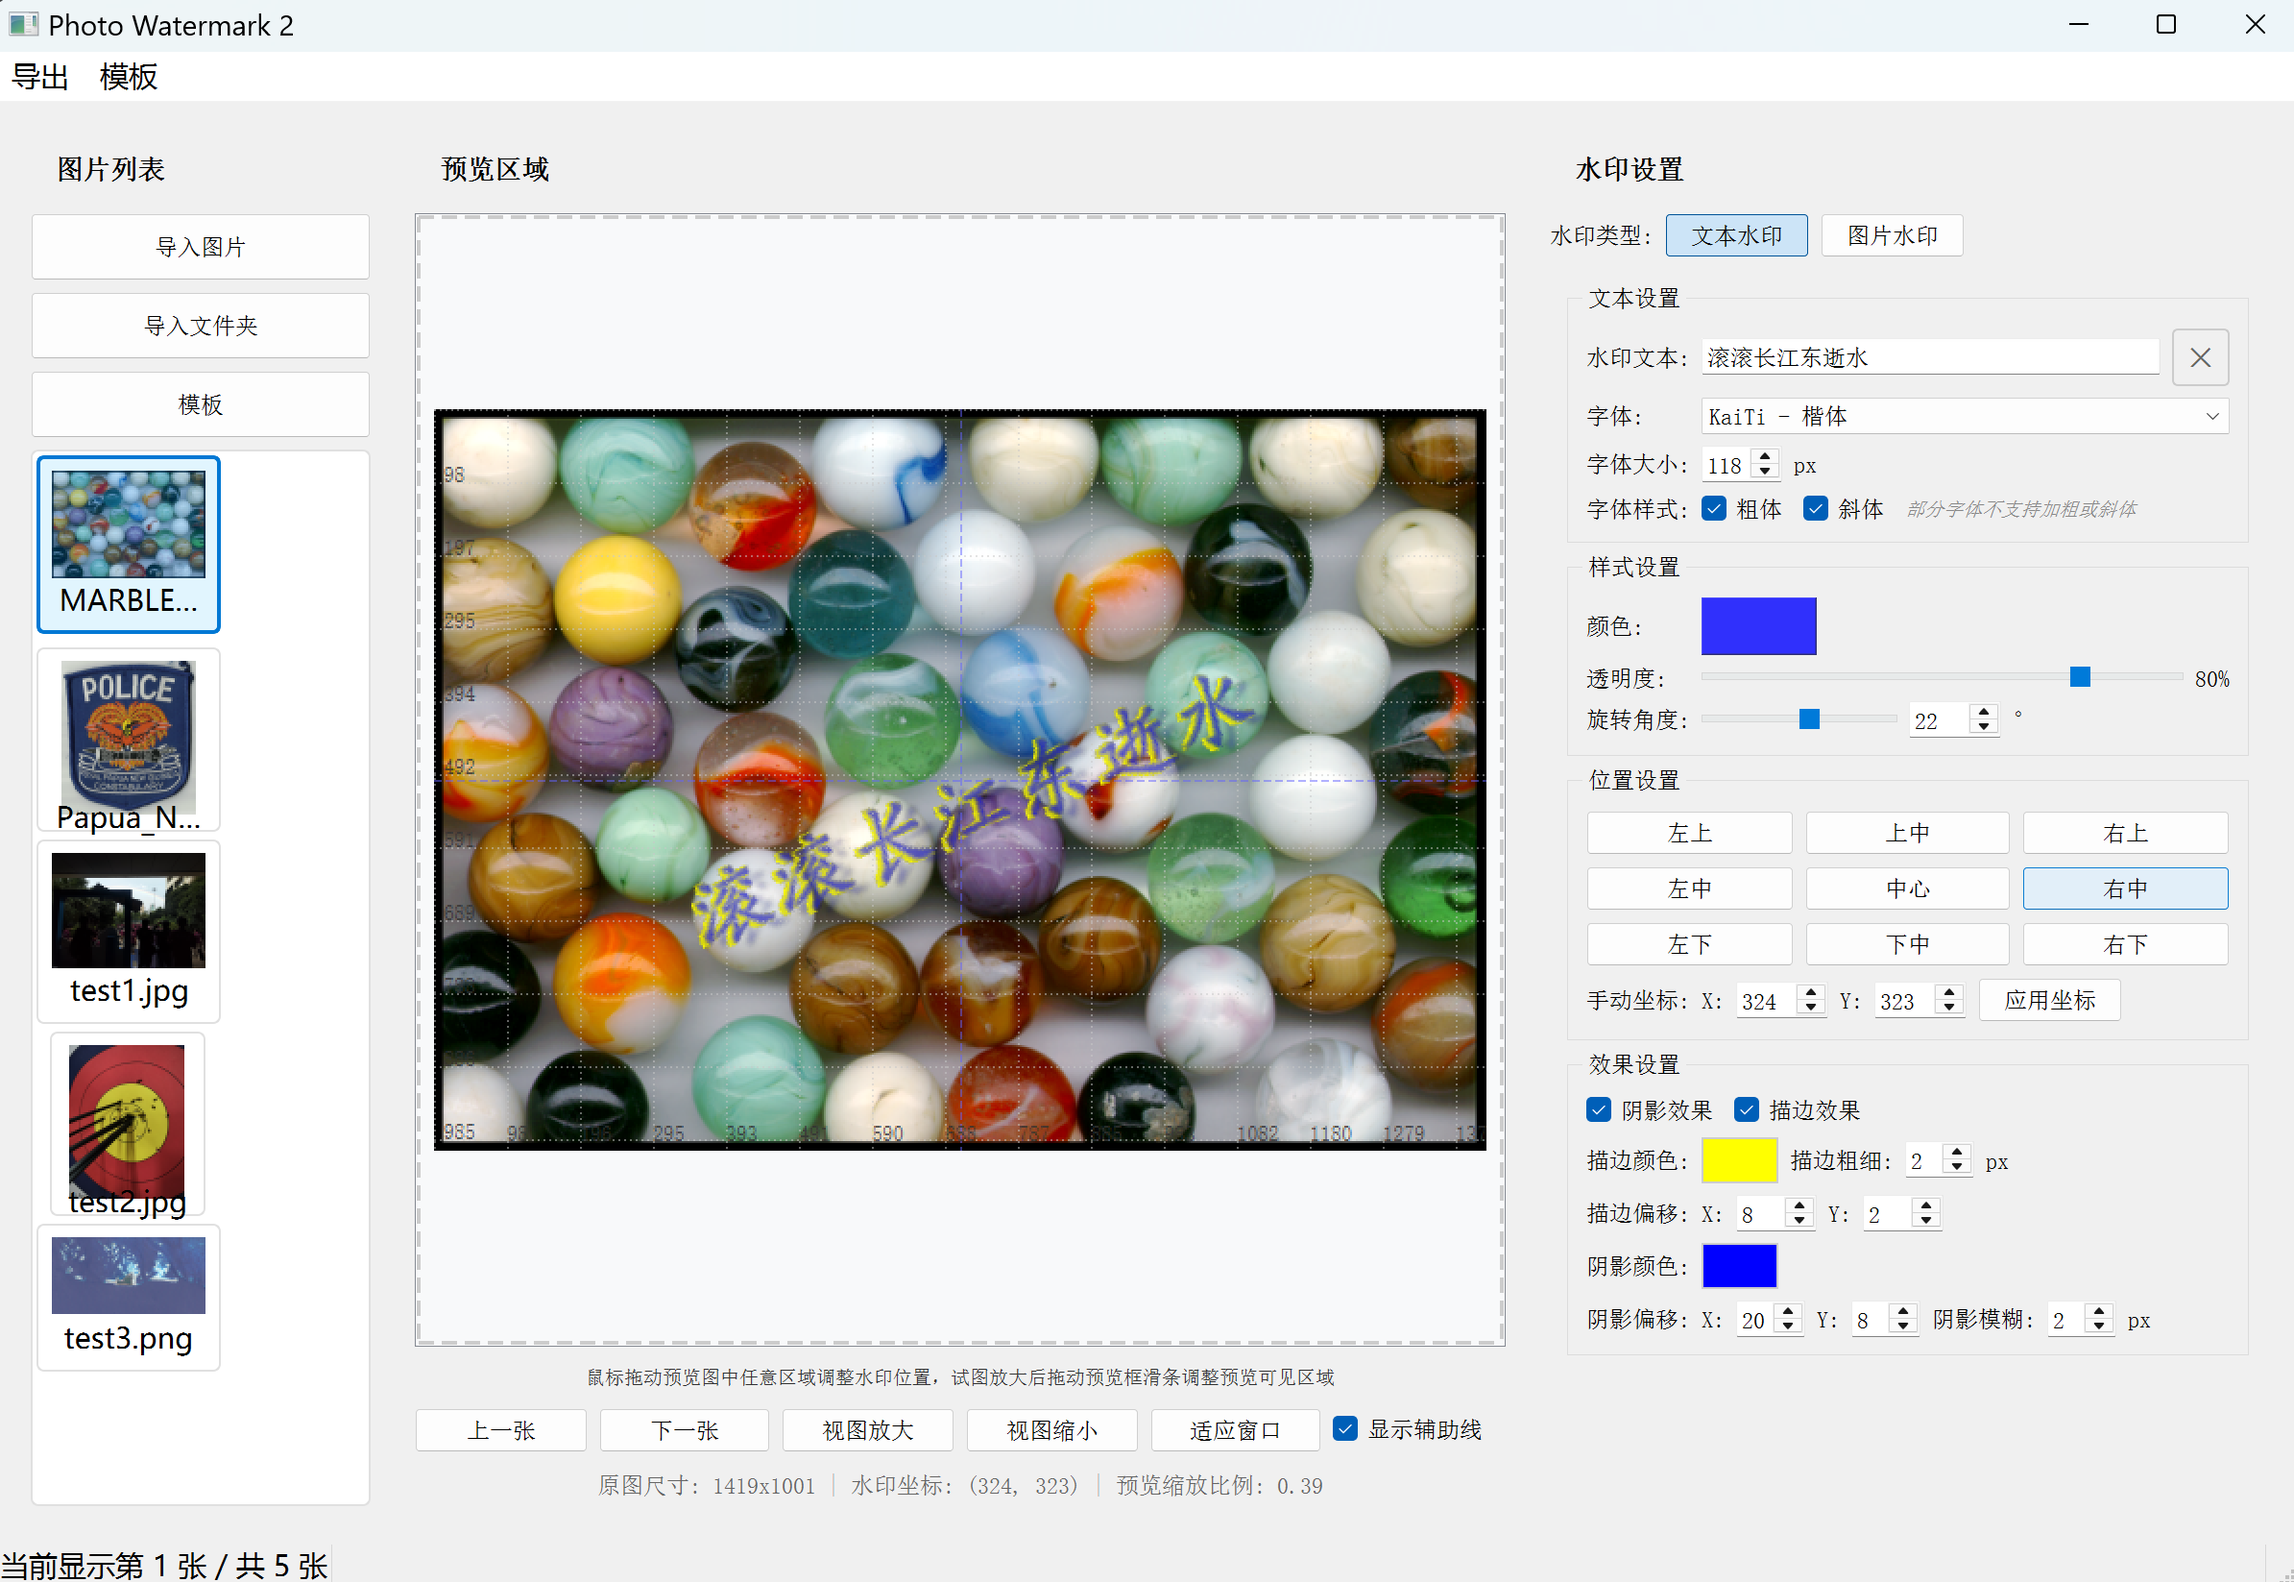
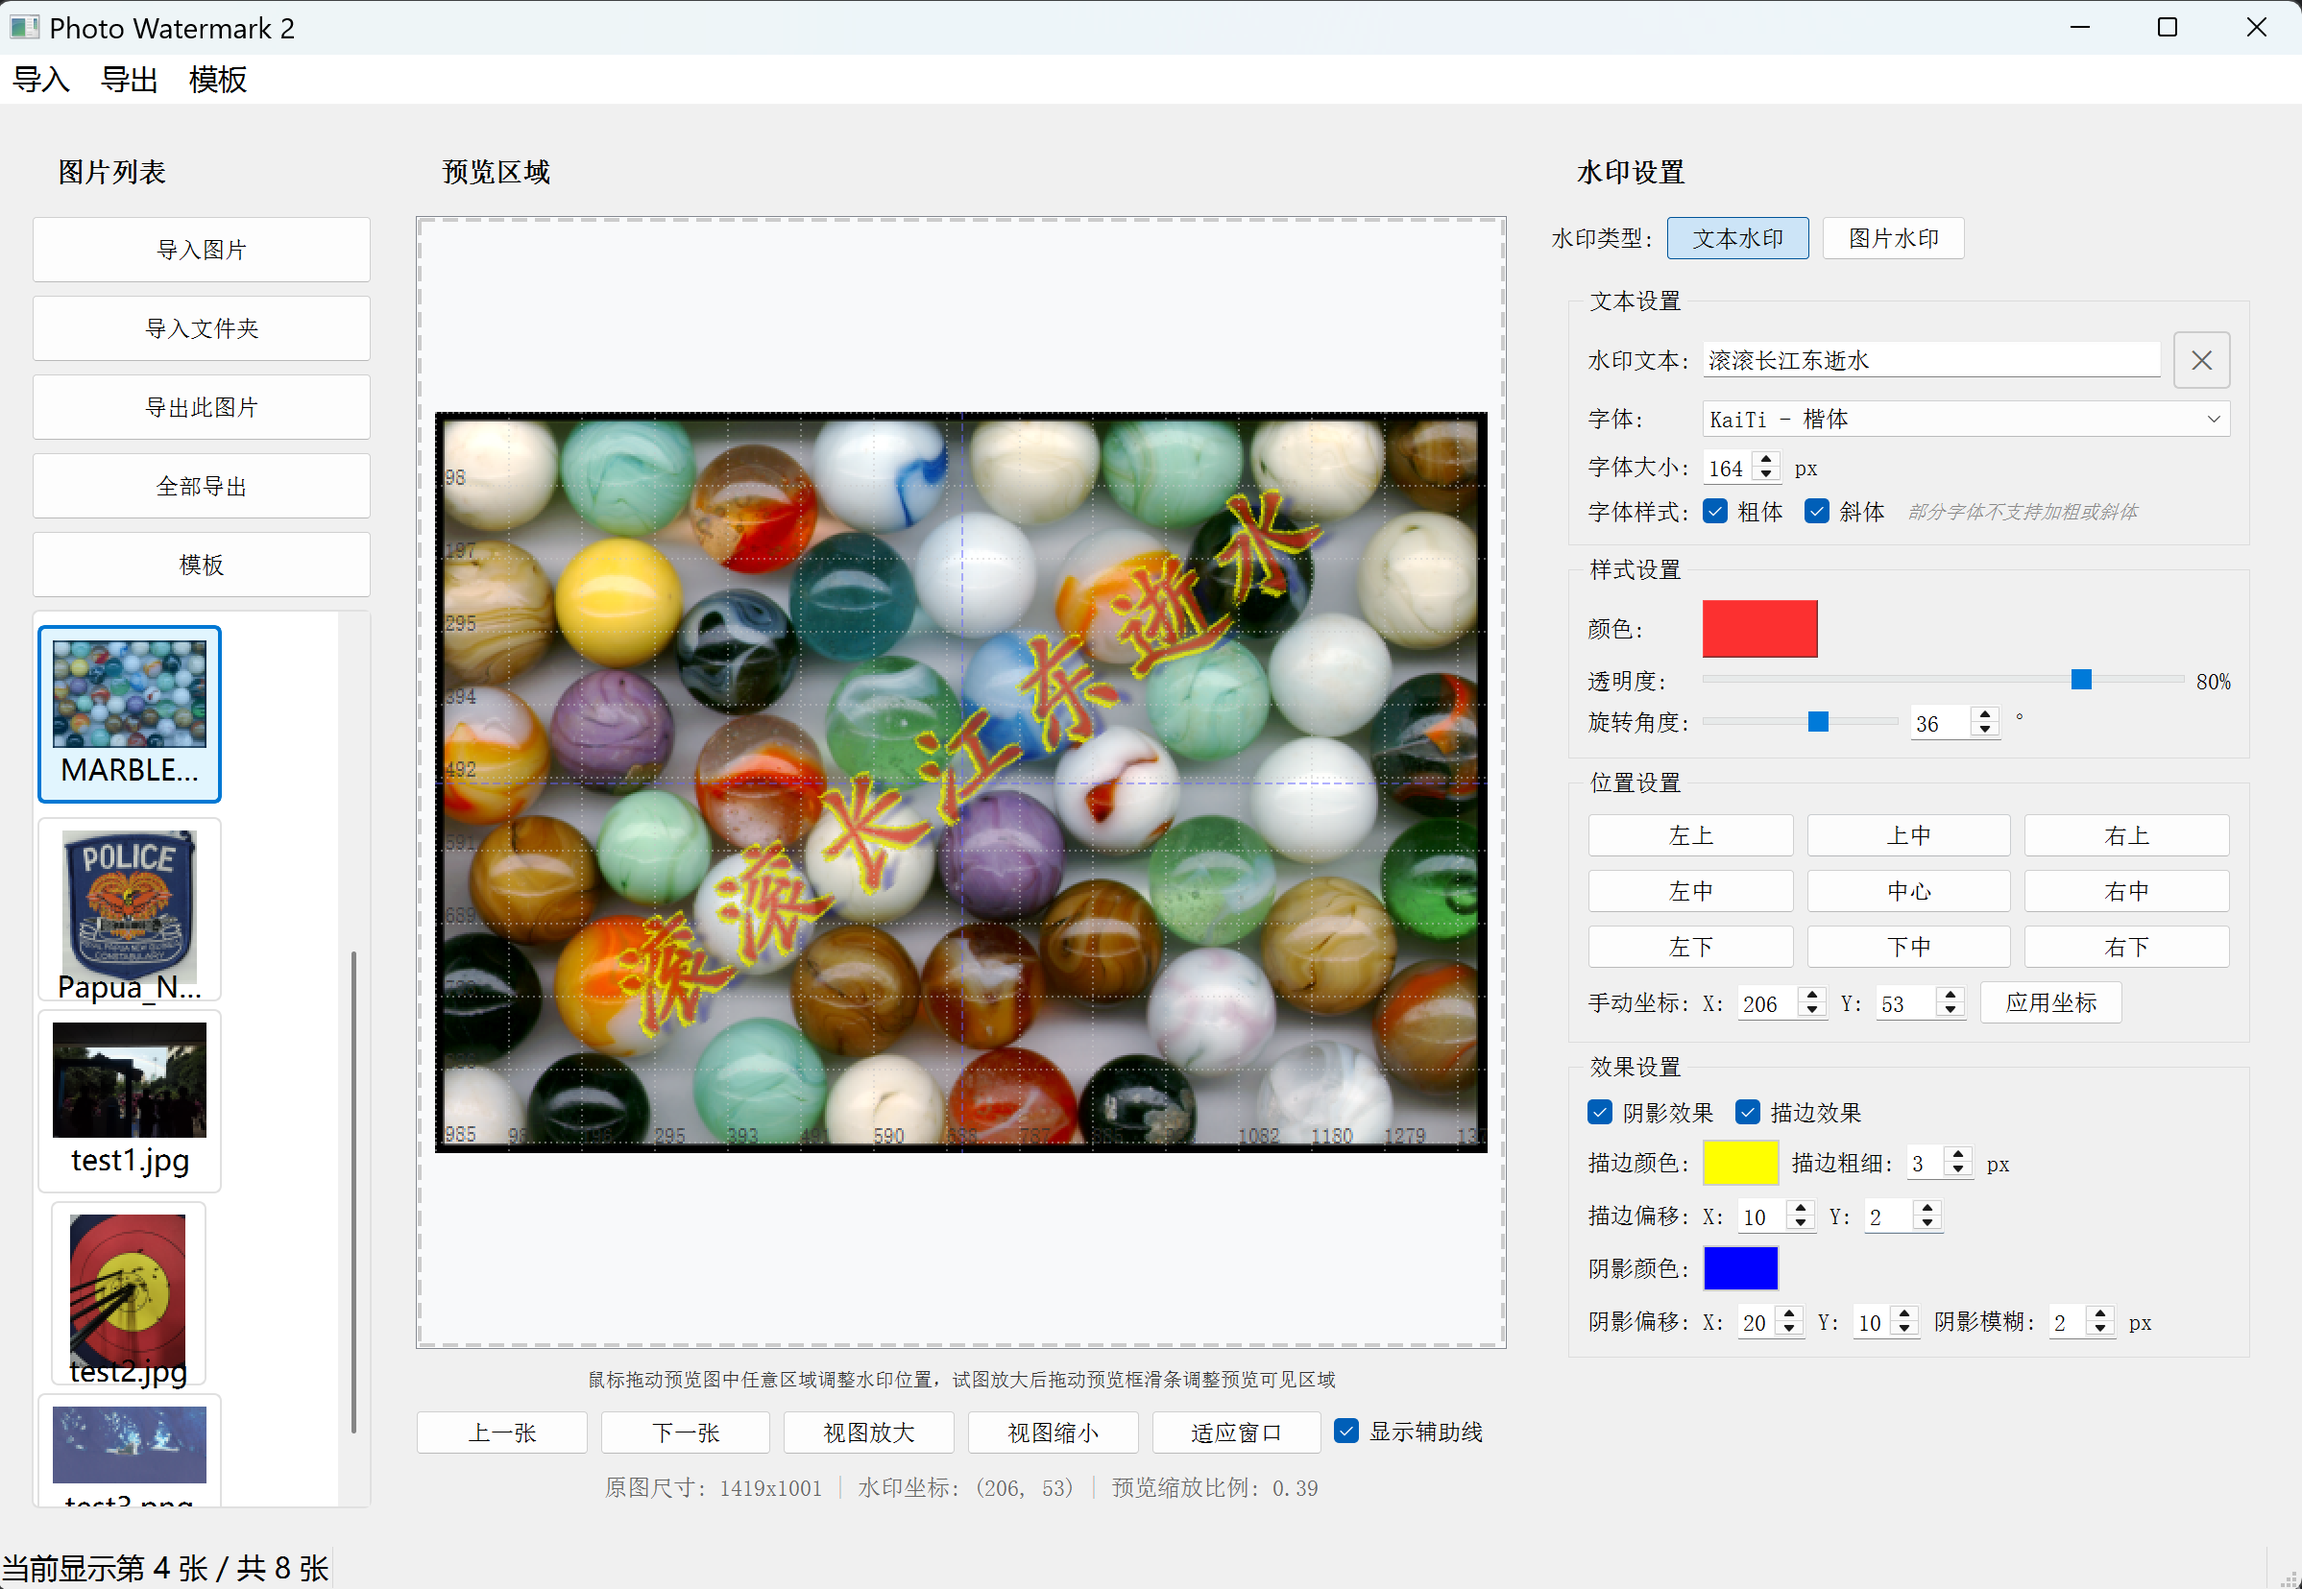
docs: 更新 README.md 和版本信息至 v1.0.1
更新 README.md 文件，添加 v1.0.1 版本更新内容，包括 UI 界面和交互逻辑的优化。同时更新了版本历史记录。

diff --git a/README.md b/README.md
@@ -121,9 +121,12 @@ PhotoWatermark2 是一款运行在Windows平台上的功能强大、操作简便
 - **NumPy**：数值计算
 
 ## 开发状态
-当前版本：v1.0.0
+当前版本：v1.0.1
+更新内容：对 ui 界面和交互逻辑进行了优化。
 
-所有核心功能已完成开发并通过测试，可以稳定运行。
+
+历史版本：
+v1.0.0 所有核心功能已完成开发并通过测试，可以稳定运行。
 
 ## 注意事项
 对于超大图片（10MB以上）和大批量图片，加载和处理时间有所延长为正常现象，请耐心等待。
@@ -135,3 +138,6 @@ PhotoWatermark2 是一款运行在Windows平台上的功能强大、操作简便
 ### v1.0.0 (2025年10月11日)
 - 初始版本发布
 - 实现所有基础功能与高级功能
+
+### v1.0.1 (2025年10月12日)
+- 更新 ui 界面和交互逻辑
